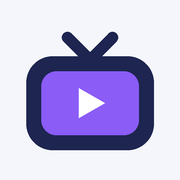
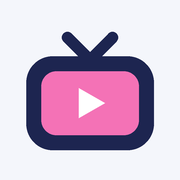
Glinda pink for Mala, Elphaba green for Maya

Changed region(s): [[0.2222, 0.3889, 0.7778, 0.7778]]

diff --git a/index.html b/index.html
@@ -7,7 +7,7 @@
 <meta name="description" content="Hand-picked videos for the kids, one channel each.">
 <meta name="robots" content="noindex">
 <meta name="theme-color" content="#f4f6fb">
-<link rel="icon" type="image/svg+xml" href="mala/icon.svg">
+<link rel="icon" type="image/svg+xml" href="mala/icon.svg?v=2">
 <link rel="preconnect" href="https://fonts.googleapis.com">
 <link rel="preconnect" href="https://fonts.gstatic.com" crossorigin>
 <link href="https://fonts.googleapis.com/css2?family=Bungee&family=Nunito:wght@400;600;800;900&display=swap" rel="stylesheet">
@@ -36,8 +36,8 @@
   <main>
     <h1>Who's watching?</h1>
     <nav class="kids">
-      <a href="mala/" style="--c:#8b5cf6"><img src="mala/icon.svg" alt=""><b>Mala <span>TV</span></b></a>
-      <a href="maya/" style="--c:#ec4899"><img src="maya/icon.svg" alt=""><b>Maya <span>TV</span></b></a>
+      <a href="mala/" style="--c:#f472b6"><img src="mala/icon.svg?v=2" alt=""><b>Mala <span>TV</span></b></a>
+      <a href="maya/" style="--c:#57c75e"><img src="maya/icon.svg?v=2" alt=""><b>Maya <span>TV</span></b></a>
     </nav>
   </main>
 </body>

diff --git a/mala/index.html b/mala/index.html
@@ -11,8 +11,8 @@
 <meta name="apple-mobile-web-app-status-bar-style" content="default">
 <meta name="apple-mobile-web-app-title" content="Mala TV">
 <meta name="theme-color" content="#f4f6fb">
-<link rel="apple-touch-icon" sizes="180x180" href="apple-touch-icon.png">
-<link rel="icon" type="image/svg+xml" href="icon.svg">
+<link rel="apple-touch-icon" sizes="180x180" href="apple-touch-icon.png?v=2">
+<link rel="icon" type="image/svg+xml" href="icon.svg?v=2">
 <link rel="manifest" href="manifest.json">
 <link rel="preconnect" href="https://fonts.googleapis.com">
 <link rel="preconnect" href="https://fonts.gstatic.com" crossorigin>
@@ -21,7 +21,7 @@
 <link rel="stylesheet" href="../tv.css?v=3">
 </head>
 <body>
-<script>window.KID = {"id": "mala", "name": "Mala", "color": "#8b5cf6", "others": [{"id": "maya", "name": "Maya"}]};</script>
+<script>window.KID = {"id": "mala", "name": "Mala", "color": "#f472b6", "others": [{"id": "maya", "name": "Maya"}]};</script>
 <script src="videos.js?v=4"></script>
 <script src="../tv.js?v=2"></script>
 <script src="https://www.youtube.com/iframe_api"></script>

diff --git a/maya/index.html b/maya/index.html
@@ -11,8 +11,8 @@
 <meta name="apple-mobile-web-app-status-bar-style" content="default">
 <meta name="apple-mobile-web-app-title" content="Maya TV">
 <meta name="theme-color" content="#f4f6fb">
-<link rel="apple-touch-icon" sizes="180x180" href="apple-touch-icon.png">
-<link rel="icon" type="image/svg+xml" href="icon.svg">
+<link rel="apple-touch-icon" sizes="180x180" href="apple-touch-icon.png?v=2">
+<link rel="icon" type="image/svg+xml" href="icon.svg?v=2">
 <link rel="manifest" href="manifest.json">
 <link rel="preconnect" href="https://fonts.googleapis.com">
 <link rel="preconnect" href="https://fonts.gstatic.com" crossorigin>
@@ -21,7 +21,7 @@
 <link rel="stylesheet" href="../tv.css?v=3">
 </head>
 <body>
-<script>window.KID = {"id": "maya", "name": "Maya", "color": "#ec4899", "others": [{"id": "mala", "name": "Mala"}]};</script>
+<script>window.KID = {"id": "maya", "name": "Maya", "color": "#57c75e", "others": [{"id": "mala", "name": "Mala"}]};</script>
 <script src="videos.js?v=3"></script>
 <script src="../tv.js?v=2"></script>
 <script src="https://www.youtube.com/iframe_api"></script>
